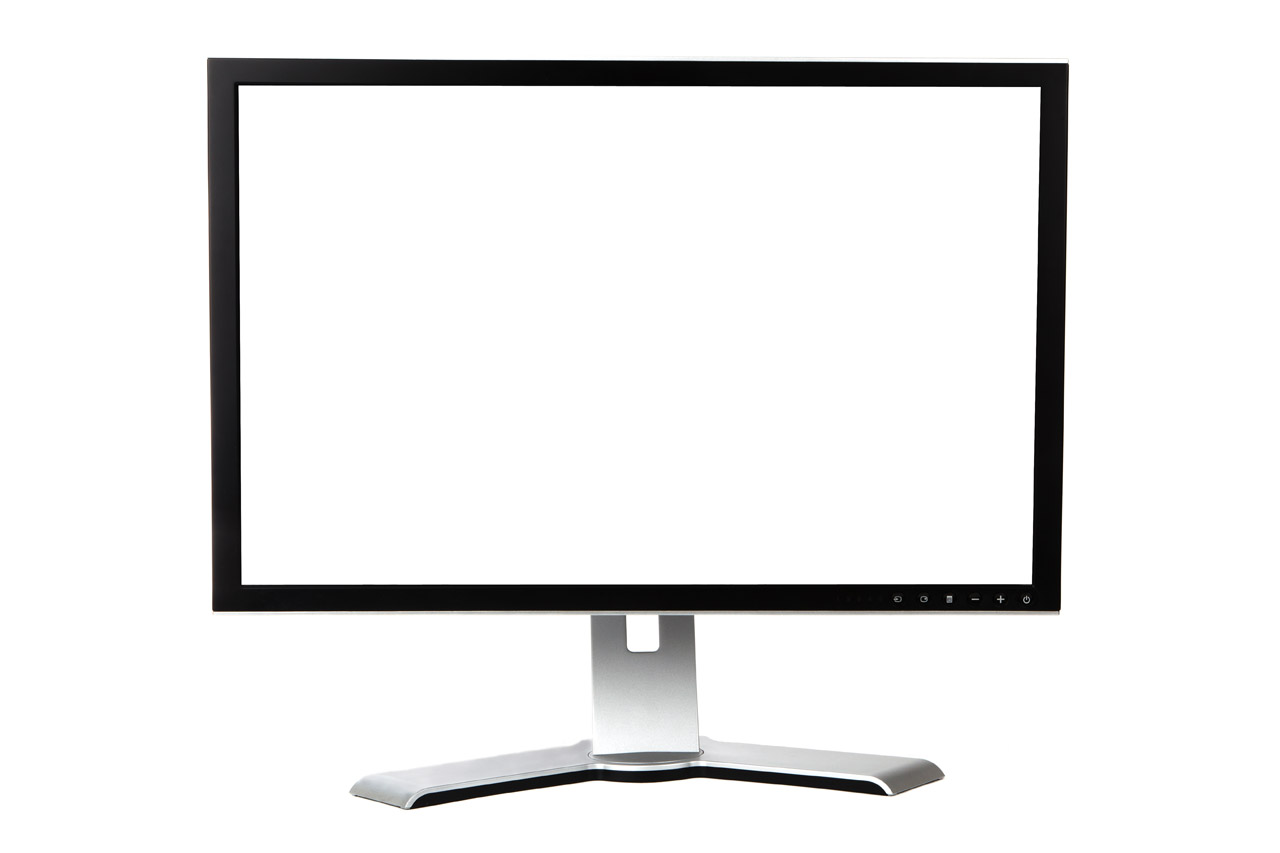
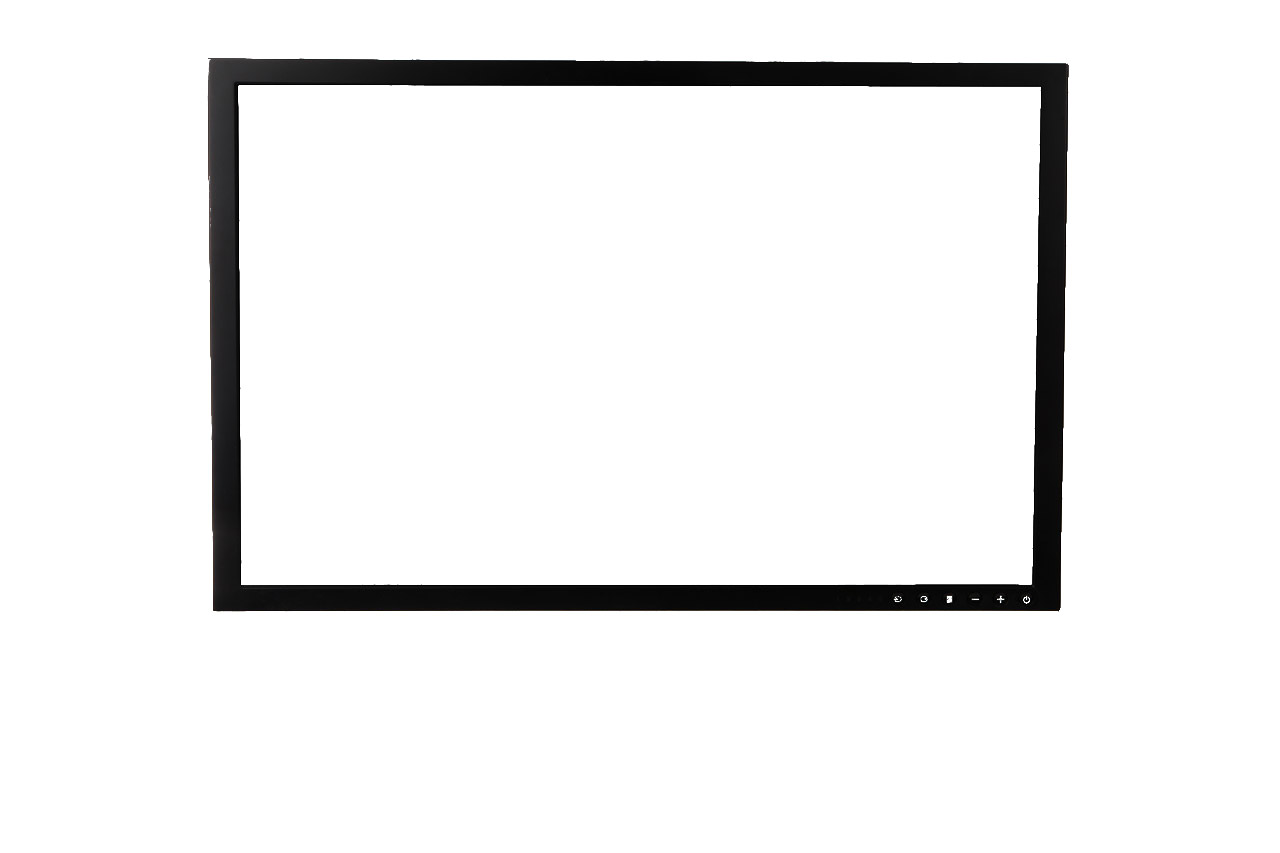
Nowy Wygład

Changed region(s): [[0.25, 0.7011, 0.8125, 0.9449]]

diff --git a/index.html b/index.html
@@ -34,19 +34,27 @@
 			<div id="connect"><a href="ts3server://h2k1">Połącz z serwerem</a></div>
 		</header>
 	</section>
-	<section>
+	<section style="height: 567px;">
 		<div id="ts3">
-			<div id="ts3viewer_1117788" class="ts3viewer"</div>
+			<div class="ts3viewer">
+			<div class="ts3index-viewer" data-serverid="242867" data-style="width=780px&height=492px"><a href="https://ts3index.com/?page=server&id=242867">TS3index.com</a></div>
+<script language="javascript">(function() {var c = document.createElement("script"),s = document.getElementsByTagName("script")[0];c.type = "text/javascript"; c.async = true;c.src = "https://ts3index.com/viewer/script.js";s.parentNode.insertBefore(c, s);})();</script>
+		<div>
 		</div>
 	</section>
-	
+		<header>
+			<h1 class="welcome">Administratorzy</h1>
+				<iframe width="400" height="400" style="border:none;overflow:hidden"   src="https://lobobot.com/box/token/vgLOSyeDuJuiGvb5"></iframe>  
+				<a href="http://steamsignature.com"><img src="https://steamsignature.com/profile/polish//76561198139046323.png" alt=""/></a>
+				<a href="https://www.tsviewer.com/index.php?page=userinfo&ident=67WzCC02RBO8DpPzmsvWzMK4kq8%3D"><img src="https://userb.tsviewer.com/1_t-i_cn-DFF8F2/67WzCC02RBO8DpPzmsvWzMK4kq8%3D.png"></a>
+		</header>
 	<section id="wspomorz">
 		<header>
 			<h1 class="welcome">Wspomóż serwer</h1>
 		</header>
 		
 			<div id="wilget">
-				<iframe src="https://admin.pukawka.pl/api/?keyapi=M3KEGt0c9l0p5rN" width="224px" height="298px" border="0" style="border:0;width:224pxpx;height:298pxpx;"><a href="https://admin.pukawka.pl/api/?keyapi=M3KEGt0c9l0p5rN">Przejdź do płatności</a></iframe>
+				<iframe src="https://admin.pukawka.pl/api/?keyapi=M3KEGt0c9l0p5rN" width="212px" height="298px" border="0" style="border:0;width:212pxpx;height:298pxpx;"><a href="https://admin.pukawka.pl/api/?keyapi=M3KEGt0c9l0p5rN">Przejdź do płatności</a></iframe>
 			</div>
 	</section>
 

diff --git a/css/main.css b/css/main.css
@@ -1,9 +1,28 @@
+::-webkit-scrollbar {
+    width: 10px;
+  }
+  
+  /* Track */
+  ::-webkit-scrollbar-track {
+    background: #2B3137; 
+  }
+   
+  /* Handle */
+  ::-webkit-scrollbar-thumb {
+    background: #fff; 
+  }
+  
+  /* Handle on hover */
+  ::-webkit-scrollbar-thumb:hover {
+    background: #FAFBFC;
+  }
 /* 1.Główne */
 body {
 	margin: 0px;
 	font-family: 'Lato', sans-serif;
 	line-height: 1.2;
-	color: black;
+    color: #FAFBFC;
+	background: #2B3137;
 }
 main {
 	margin-top: 57px;
@@ -12,22 +31,23 @@ main {
 
 /* 2.Nawigacja */
 .nav_bar {
-	position: fixed;
-    background: #151515;
+    position: fixed;
+    background: #24292E;
     left: 0;
     right: 0;
     top: 0;
-    padding: 7px 0 7px 0;
     z-index: 2;
-    height: 40px;
+    height: 53px !important;
     color: #fff;
 }
 #logo {
-	display: flex;
-    justify-content: flex-start;
     position: absolute;
-    height: 16px;
-    padding: 12px 12px;
+    padding: 11px;
+    font-size: 17px;
+    color: #fff;
+    top: 5px;
+    left: 5px;
+    font-weight: 400;
 }
 #logo:hover {
 	border: 1px solid #fff;
@@ -45,7 +65,7 @@ main {
     margin: 0;
     justify-content: flex-end;
     display: flex;
-	background: #151515;
+	padding: 7px;
 }
 .menu
 {
@@ -80,7 +100,6 @@ a {
 /* Koniec Nawigacji */
 /* Sekcje */
 .welcome {
-    color: black;
     font-size: 3rem;
     margin-top: 100px;
     margin-bottom: 50px;
@@ -91,21 +110,20 @@ a {
 }
 #connect a {
     font-size: 28px;
-    color: black;
-    border: 2px solid black;
+    border: 2px solid white;
     padding: 9px 17px;
     font-weight: 800;
 }
 #ts3 {
-	background: url(../monitor.jpg) center no-repeat;
+	background: url(../monitor.png) center no-repeat;
 	width: 100%;
     height: 849px;
 }
 .ts3viewer {
-	width: 780px;
+	width: 773px;
     margin: auto;
     height: 492px;
-    padding-top: 86px;
+    padding-top: 90px;
 }
 #wilget {
 	text-align: center;

diff --git a/css/animation.css b/css/animation.css
@@ -1,17 +1,17 @@
 /* linki */
 a:link
 {
-    color: #111;
+    color: #FAFBFC;
 }
 a:hover
 {
-	color: #111;
+	color: #FAFBFC;
 }
 a:active
 {
-    color: #111;
+    color: #FAFBFC;
 }
 a:visited
 {
-    color: #111;
+    color: #FAFBFC;
 }
